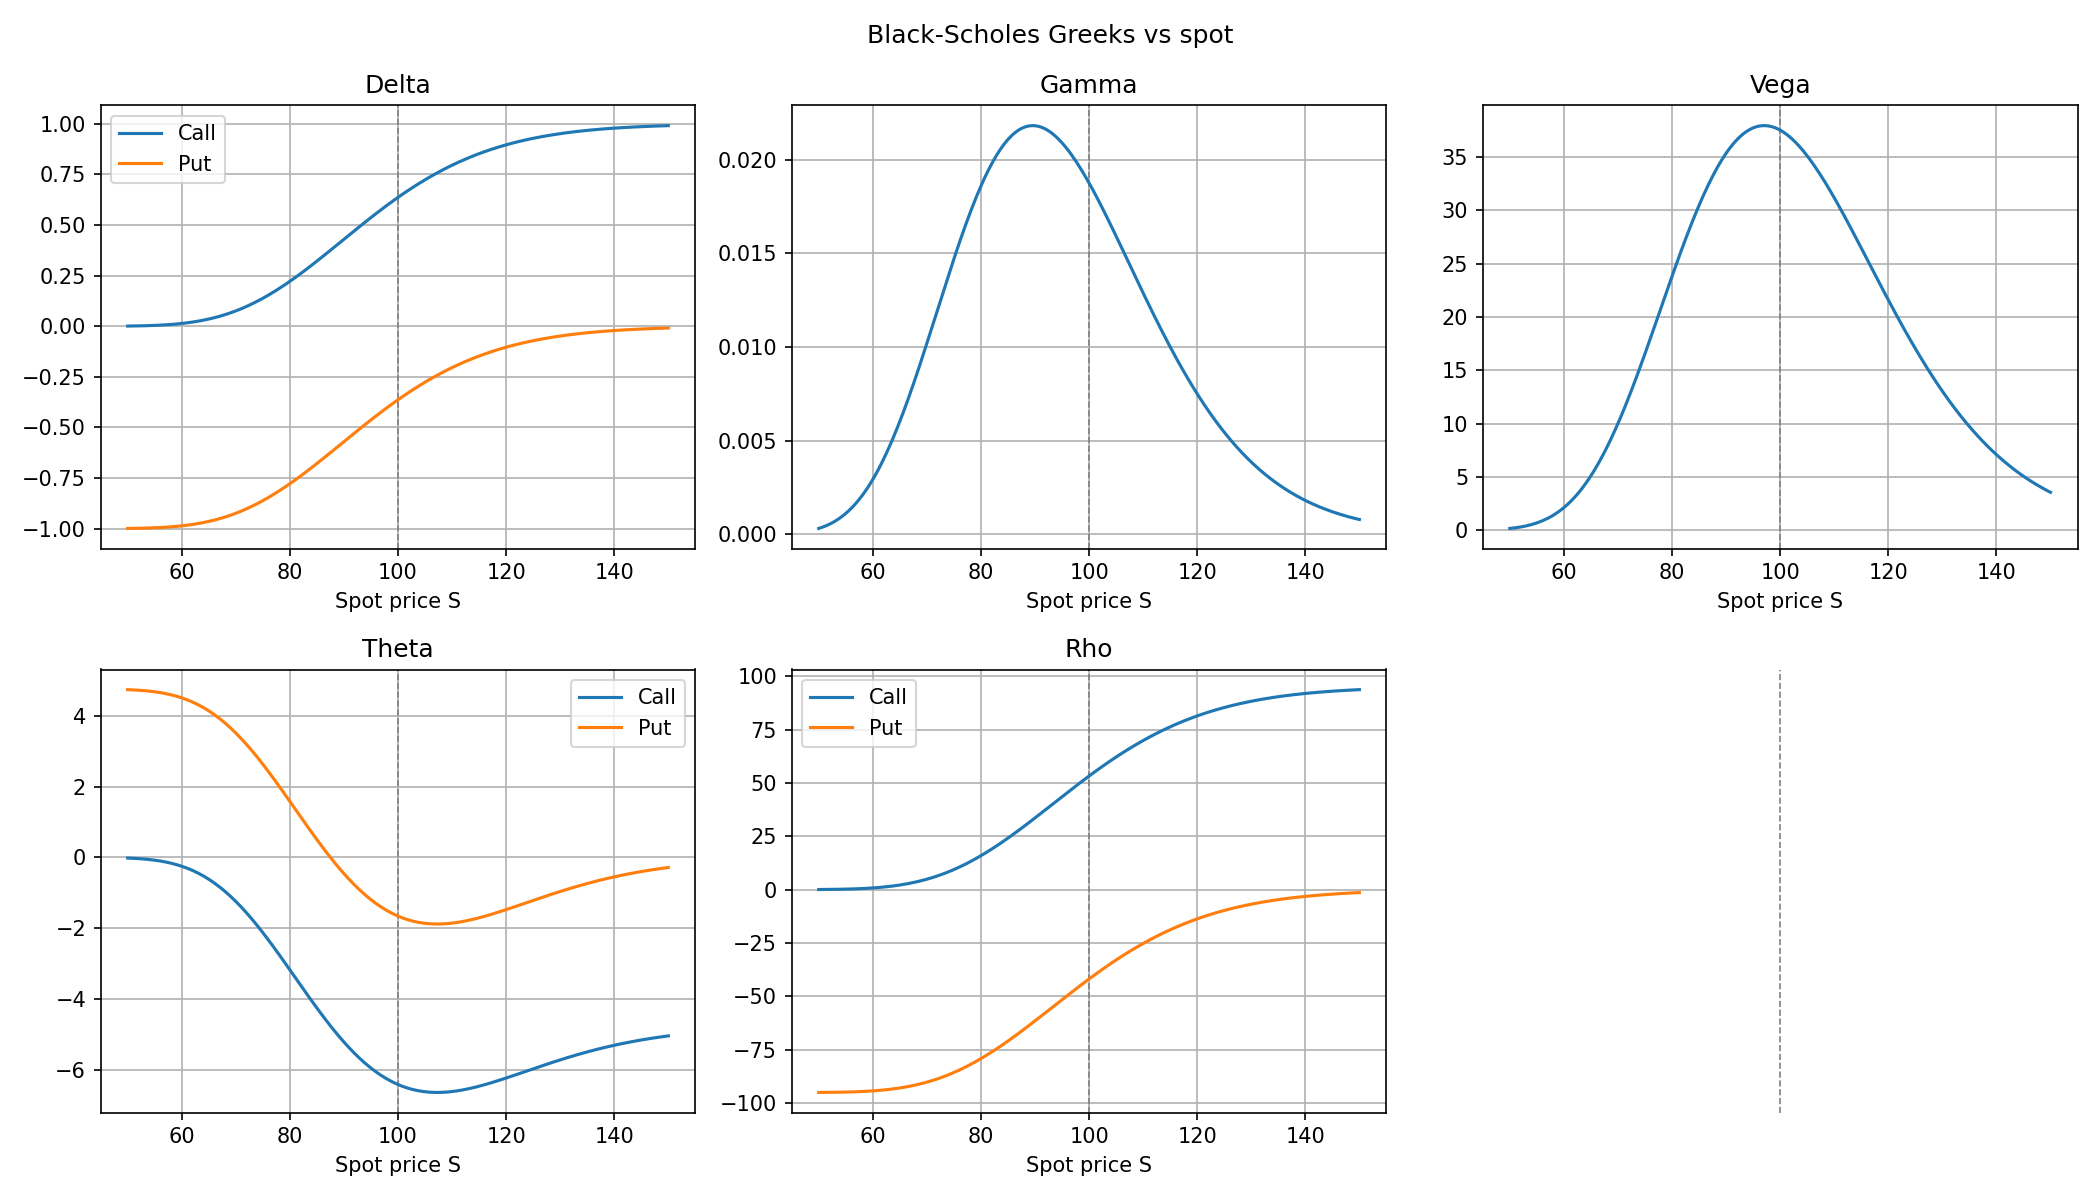
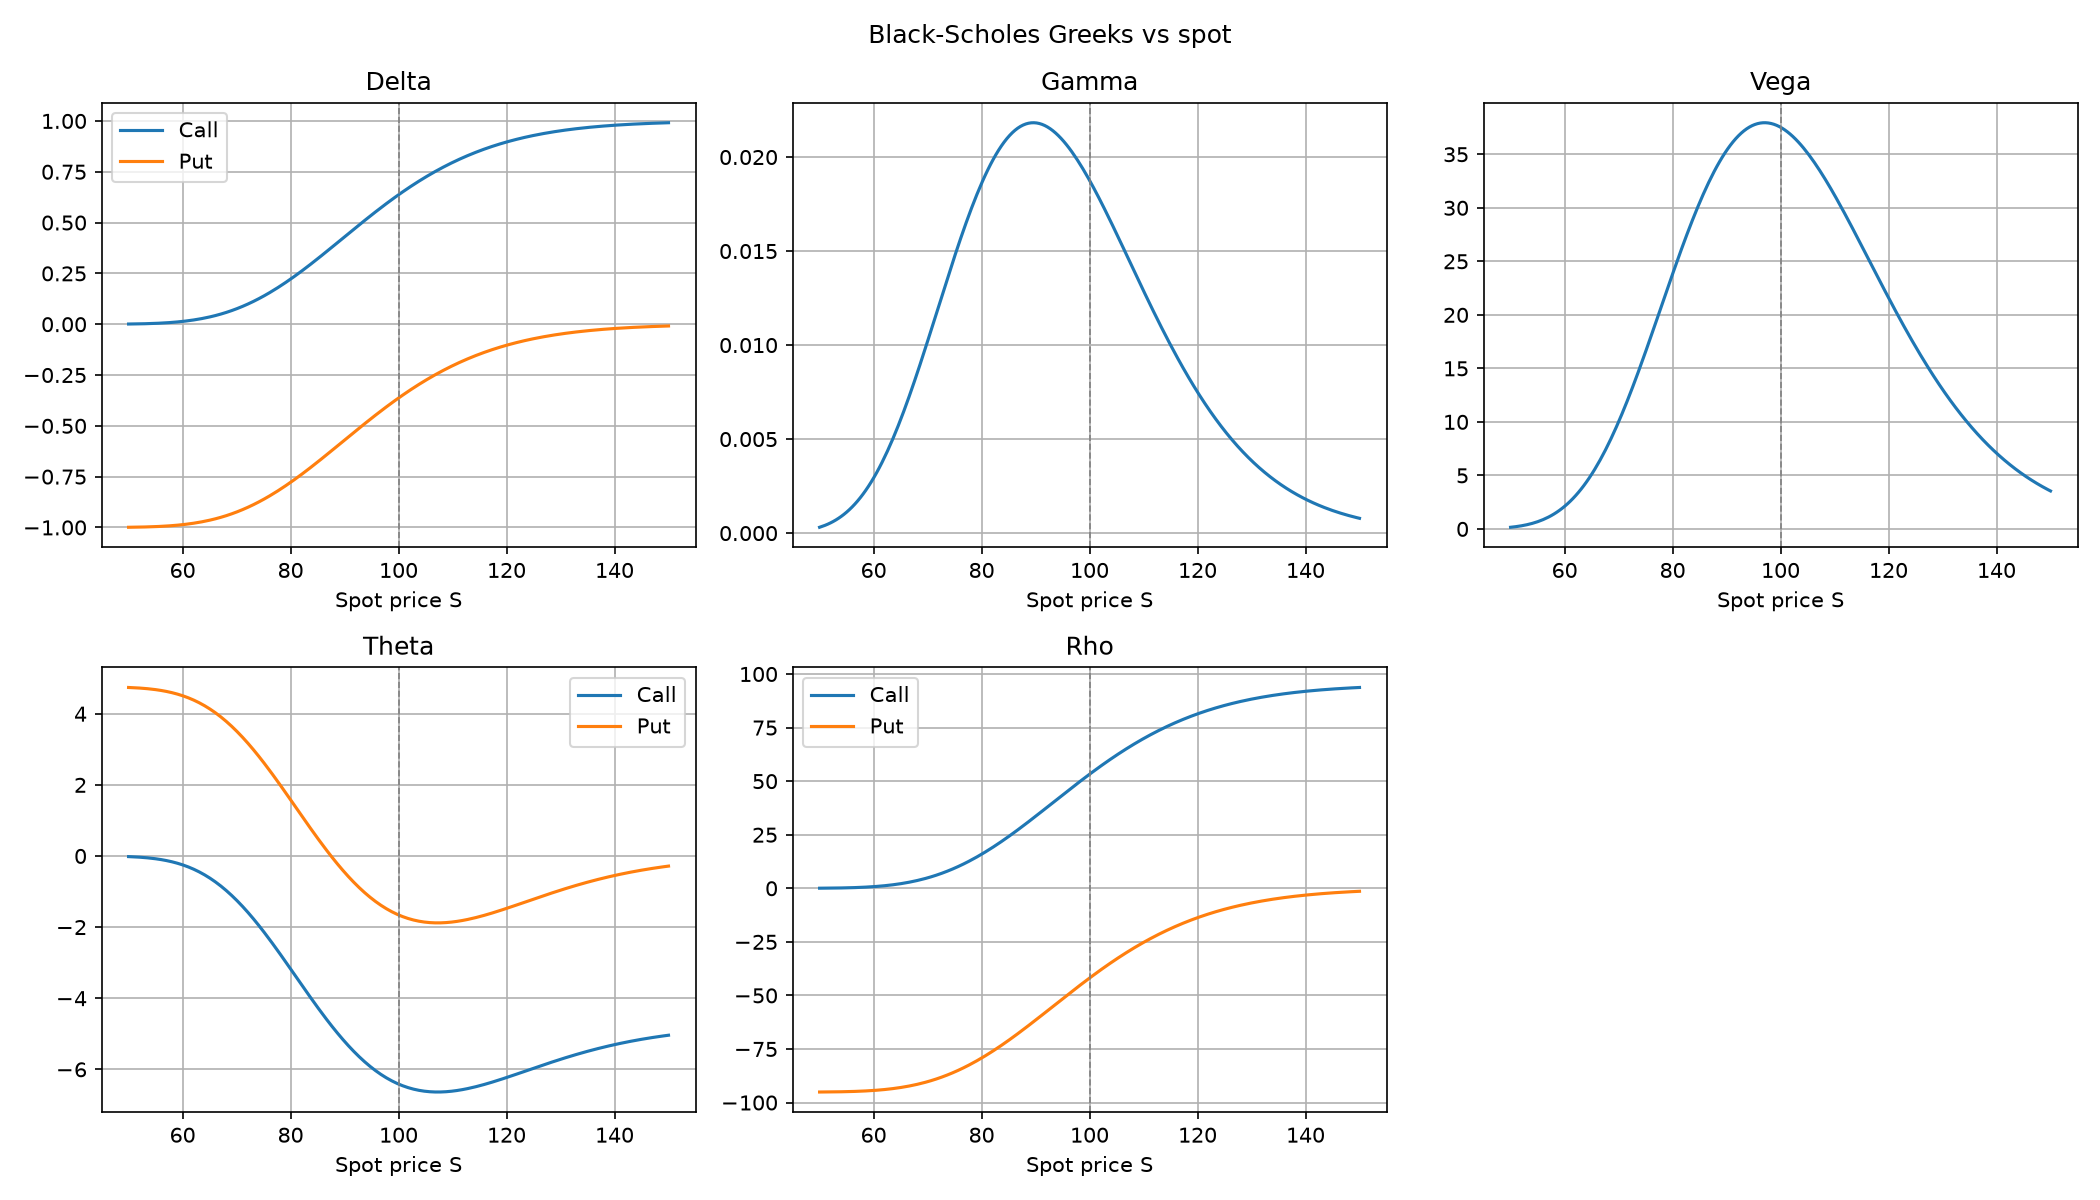
Fix strike line appearing in unused Greek plot panel

diff --git a/black_scholes.py b/black_scholes.py
@@ -165,11 +165,6 @@ def plot_greeks(K: float = 100, t: float = 1,
 
     fig, axes = plt.subplots(2, 3, figsize=(14, 8))
 
-    for ax in axes.flat:
-        ax.set_xlabel("Spot price S")
-        ax.axvline(K, color="gray", linestyle="--", linewidth=0.8)
-        ax.grid(True)
-
     axes[0, 0].plot(spots, deltas_call, label="Call")
     axes[0, 0].plot(spots, deltas_put, label="Put")
     axes[0, 0].set_title("Delta")
@@ -191,7 +186,12 @@ def plot_greeks(K: float = 100, t: float = 1,
     axes[1, 1].set_title("Rho")
     axes[1, 1].legend()
 
-    axes[1, 2].axis("off")
+    fig.delaxes(axes[1, 2])
+
+    for ax in axes.flat:
+        ax.set_xlabel("Spot price S")
+        ax.axvline(K, color="gray", linestyle="--", linewidth=0.8)
+        ax.grid(True)
 
     fig.suptitle("Black-Scholes Greeks vs spot")
     fig.tight_layout()
